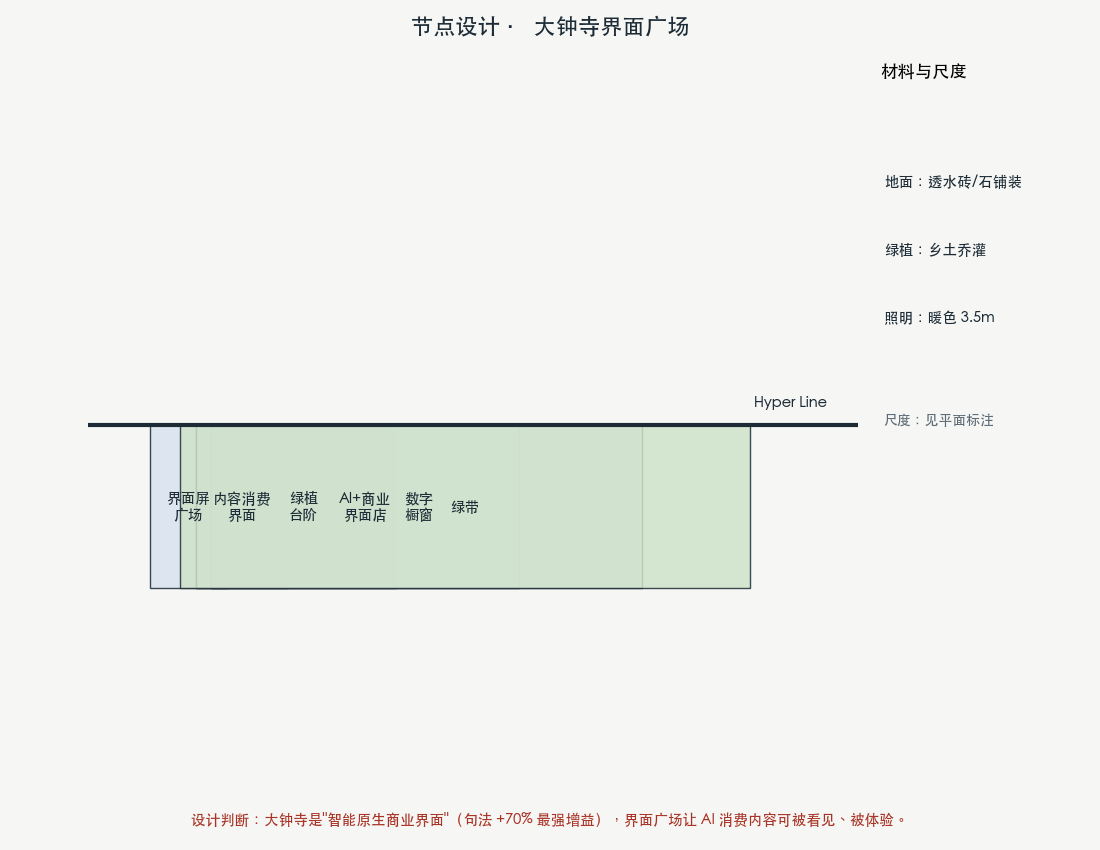
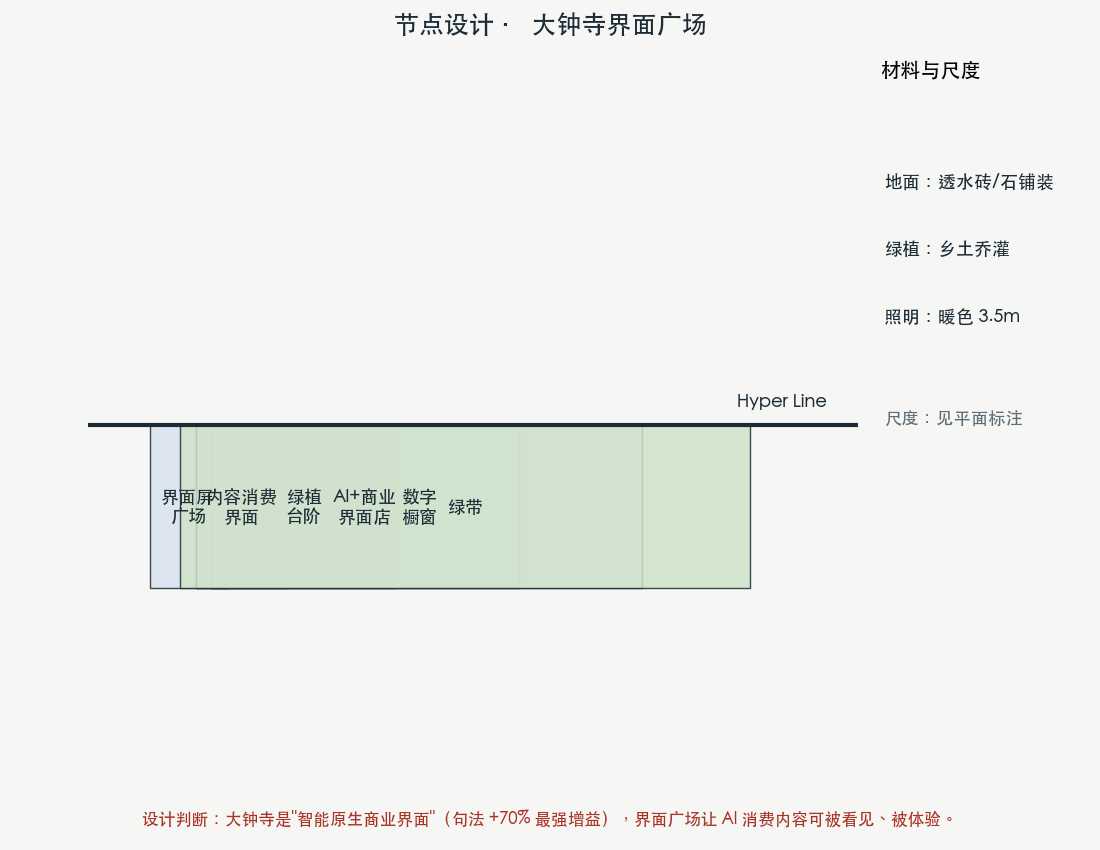
阶段7修复3 铁路系统化与对位：全部总图统一叠加京张铁路真实线位(A1-A6/E2/E3/句法/夜景/启动区)；与中城院铁路整体规划改造衔接段入设计依据章(在其成果上生长不另起炉灶)；效果图与节点1:1对位(三区平面+效果图成对/主脊剖面+步骑分离成对/三朝圣地标渲染与E3同页/愿景鸟瞰归位)；c25与尺度钻取字号再放大；四门自检PASS

diff --git a/submissions/Anshengdesign/jingzhang-living-line/report/proposal.html b/submissions/Anshengdesign/jingzhang-living-line/report/proposal.html
@@ -132,6 +132,7 @@ code {
 <p>---</p>
 <h2>愿景与目标（世界观环）</h2>
 <p><strong>愿景（三个高度，一个目标）</strong>：让百年京张成为全球第一个<strong>用城市科学全程设计、可计算、可进化、为人服务</strong>的 AI 创新带。别人交&quot;蓝图&quot;，我们交&quot;城市操作系统&quot;。当评审问&quot;五年后怎么知道这条带成功了&quot;，我们的回答不是形容词，是四个数：渗流巨分量 ≥0.90、句法锚点整合度增益 ≥30%、职住熵提升 ≥4%、EI 年度重跑并公开 <sup class="evidence evidence-metric" data-evidence-kind="metric" data-evidence-value="GATE.bluegreen_giant_frac" title="指标：GATE.bluegreen_giant_frac">指标</sup>。</p>
+<figure class="proposal-figure"><img src="../assets/media/vision-2035.jpg" alt="愿景鸟瞰 2035（AI 渲染概念图，非实景承诺）— 沿京张铁路遗产线位看这条带"><figcaption>愿景鸟瞰 2035（AI 渲染概念图，非实景承诺）— 沿京张铁路遗产线位看这条带</figcaption></figure>
 <figure class="proposal-figure"><img src="../assets/figures/vision-kpis.png" alt="愿景·5 KPI 现状 vs 目标：渗流 0.840→0.900（设计触发，现状记 GAP）、句法 +43.0% vs 30%、熵 +5.3% vs 4%、EI 0.962 vs 0.85、冗余度 R 0.870 vs 0.80（双柱状图，数据标单源）"><figcaption>愿景·5 KPI 现状 vs 目标：渗流 0.840→0.900（设计触发，现状记 GAP）、句法 +43.0% vs 30%、熵 +5.3% vs 4%、EI 0.962 vs 0.85、冗余度 R 0.870 vs 0.80（双柱状图，数据标单源）</figcaption></figure>
 <p><strong>双时钟世界观</strong>：高频城市以秒/天/月跳动（25,476 个高德 POI 的分布是它的心跳）；低频城市以年/十年沉淀（控规、红线、产权是它的骨架）。只看见一个时钟的设计，会把&quot;瞬时现象&quot;错当&quot;永久结构&quot;，或把&quot;永久约束&quot;错当&quot;可忽略&quot;。</p>
 <p><strong>七条原则</strong>：①网络优先于地块 ②自组织预留 ③混合功能 ④双时钟 ⑤沙盒验证 ⑥可复算 ⑦为人服务。每一条都能落到一个可检查的设计动作上。</p>
@@ -145,7 +146,11 @@ code {
 <p><strong>AI 朝圣地标体系（任务书 agent.4：不少于 3 个）</strong>：①<strong>清华园车站·原点</strong>——朝圣理由：1909 年的选址至今是全带句法第 93.5 百分位，中国工程自强的坐标原点；②<strong>五道口·相变广场</strong>——朝圣理由：λ 仪表所在，每一个 AI 从业者都能在这里看见“城市连没连起来”；③<strong>大钟寺·界面广场</strong>——朝圣理由：涌现之钟与古钟对位，AI 时代的钟声从这里开始数。三个朝圣地标由主脊上的<strong>朝圣动线</strong>串联（原点→相变广场→界面广场），与开发者节、荣誉墙年度铭刻共同构成朝圣日历。</p>
 <p><strong>国际传播叙事（品牌识别度+国际传播力）</strong>：中英双语核心口号 <strong>“One belt. Emergent by design.” /「一条带，涌现而成」</strong>；全球 AI 创新活动体系——开发者大会、黑客马拉松、AI 艺术节、开源社区日（年度日历，概念建议）；品牌沉淀机制——涌现之脑年度报告（λ 与 H 公开）、开发者名墙（贡献可记忆）、荣誉墙铭刻（公共知识沉淀）。全部活动为概念建议，不构成已确定安排。</p>
 <figure class="proposal-figure"><img src="../assets/figures/culture-heritage-map.png" alt="文脉资产化地图：七个文化资源点 × 四种利用方式"><figcaption>文脉资产化地图：七个文化资源点 × 四种利用方式</figcaption></figure>
-<figure class="proposal-figure"><img src="../assets/figures/pilgrimage-landmarks.png" alt="AI 朝圣地标体系：三处朝圣地标与朝圣动线"><figcaption>AI 朝圣地标体系：三处朝圣地标与朝圣动线</figcaption></figure>
+<figure class="proposal-figure"><img src="../assets/figures/pilgrimage-landmarks.png" alt="AI 朝圣地标体系：三处朝圣地标与朝圣动线（沿京张铁路遗产线位串联）"><figcaption>AI 朝圣地标体系：三处朝圣地标与朝圣动线（沿京张铁路遗产线位串联）</figcaption></figure>
+<figure class="proposal-figure"><img src="../assets/media/origin-plaza.jpg" alt="朝圣地标① 清华园车站·原点 — 百年站房保留展陈 + 开发者名墙对位 + 铁轨意象铺装（可实现建设级细节，无悬浮装置）"><figcaption>朝圣地标① 清华园车站·原点 — 百年站房保留展陈 + 开发者名墙对位 + 铁轨意象铺装（可实现建设级细节，无悬浮装置）</figcaption></figure>
+<figure class="proposal-figure"><img src="../assets/media/phase-plaza.jpg" alt="朝圣地标② 五道口·相变广场 — λ 互动光场装置（光柱随人流形成相变波前，非电子屏）"><figcaption>朝圣地标② 五道口·相变广场 — λ 互动光场装置（光柱随人流形成相变波前，非电子屏）</figcaption></figure>
+<figure class="proposal-figure"><img src="../assets/media/interface-plaza.jpg" alt="朝圣地标③ 大钟寺·界面广场 — 涌现之钟为广场新建光装置、与古钟（不可移动历史建筑）仅视线对景不并置"><figcaption>朝圣地标③ 大钟寺·界面广场 — 涌现之钟为广场新建光装置、与古钟（不可移动历史建筑）仅视线对景不并置</figcaption></figure>
+<p><strong>与京张铁路整体规划改造的衔接（不脱离历史事件、不二次创作铁路本体）</strong>：京张铁路遗址公园的整体规划与改造已完成体系性工作（公开事件：由中城院等完成京张铁路遗址公园整体规划与改造，京张高铁入地后地上线位开放为公共空间）——本方案不重做铁路本体，而是把这一既成成果作为<strong>底图与约束</strong>：铁路遗产线位=全带总图的第一图层（本文所有总图统一叠加铁路线位），朝圣动线沿遗产线位串联，三朝圣地标与七缝合点均挂在铁路廊道上；本方案在其之上叠加的是 AI 创新带的功能层、连接层与运行层——<strong>在既有铁路规划成果上生长，而不是另起炉灶</strong>。</p>
 <h2>设计依据与资料清单（世界观环）</h2>
 <p>数据源三路：高德 POI 25,476（12 类，GCJ-02 已转 WGS84）<sup class="evidence evidence-source" data-evidence-kind="source" data-evidence-value="amap" title="来源：amap">来源</sup>、OSM 现状（路网 5,449 段/铁路/绿地 416 块/水系 65 段/高校 61）<sup class="evidence evidence-source" data-evidence-kind="source" data-evidence-value="osm" title="来源：osm">来源</sup>、官方公告与发布会事实（十分钟创新圈 d0=2500m、1+X+1 产业格局）<sup class="evidence evidence-source" data-evidence-kind="source" data-evidence-value="official" title="来源：official">来源</sup>。全部本地执行，数字入 metrics_registry.json（125 项，单源真相）。</p>
 <p><strong>代理口径声明</strong>：官方建筑底数/控规/红线尚未公开，凡密度用&quot;1km 圆计数÷π 归算、POI 代理非岗位&quot;口径（如五道口工作类 POI 密度 141 点/km²，非岗位数）；凡法定管控指标标注&quot;待正式数据补齐&quot;。8 类资料缺口详见风险合规章。</p>
@@ -215,6 +220,12 @@ code {
 <h2>重点区域详细设计（处方环）</h2>
 <p>三区四件套 + <strong>尺度化模块表</strong>（每区：范围尺寸/关键空间尺度/公共路径底线/进入下一阶段停止条件）：</p>
 <div class="proposal-table"><table><thead><tr><th>区</th><th>病（c7 实测 <sup class="evidence evidence-metric" data-evidence-kind="metric" data-evidence-value="C7_POI" title="指标：C7_POI">指标</sup>）</th><th>药</th><th>停止条件（HOLD）</th></tr></thead><tbody><tr><td>众智园（1.93km²，供职比 0.75）</td><td>缺文旅/金融</td><td>补文旅场景+金融界面，全栈段</td><td>容量极低单元未新建前不进下一阶段</td></tr><tr><td>原点社区</td><td>缺医疗/科研</td><td>补医疗科研配套，策源段</td><td>同上（adaptive seed）</td></tr><tr><td>大钟寺</td><td>缺金融/科研</td><td>补金融/科研，界面段</td><td>同上</td></tr></tbody></table></div>
+<figure class="proposal-figure"><img src="../assets/figures/plan-zhongzhiyuan_ai_acceleration_area.png" alt="众智园·全栈段 节点平面 A-A&#x27;（含测点 POI、三色叠加、剖面索引）"><figcaption>众智园·全栈段 节点平面 A-A&#x27;（含测点 POI、三色叠加、剖面索引）</figcaption></figure>
+<figure class="proposal-figure"><img src="../assets/media/stack-testband.jpg" alt="众智园·花园测试带效果图（AI 概念意向，非实施图）— 对应 A-A&#x27; 平面：带设备来的人在花园街区做有边界测试"><figcaption>众智园·花园测试带效果图（AI 概念意向，非实施图）— 对应 A-A&#x27; 平面：带设备来的人在花园街区做有边界测试</figcaption></figure>
+<figure class="proposal-figure"><img src="../assets/figures/plan-beijing_ai_origin_community.png" alt="原点·策源段 节点平面 B-B&#x27;（含环校创新街 Vn、开发者名墙对景、剖面索引）"><figcaption>原点·策源段 节点平面 B-B&#x27;（含环校创新街 Vn、开发者名墙对景、剖面索引）</figcaption></figure>
+<figure class="proposal-figure"><img src="../assets/media/origin-community.jpg" alt="原点·近校创新街效果图（AI 概念意向，非实施图）— 对应 B-B&#x27; 平面：接住从学校出来的学生和创业者"><figcaption>原点·近校创新街效果图（AI 概念意向，非实施图）— 对应 B-B&#x27; 平面：接住从学校出来的学生和创业者</figcaption></figure>
+<figure class="proposal-figure"><img src="../assets/figures/plan-dazhongsi_ai_industry_cluster.png" alt="大钟寺·界面段 节点平面 C-C&#x27;（含站域四象限步行缝合、三 POI 补位、剖面索引）"><figcaption>大钟寺·界面段 节点平面 C-C&#x27;（含站域四象限步行缝合、三 POI 补位、剖面索引）</figcaption></figure>
+<figure class="proposal-figure"><img src="../assets/media/dazhongsi-front.jpg" alt="大钟寺·界面之夜效果图（AI 概念意向，非实施图）— 对应 C-C&#x27; 平面：白天通勤、入夜小课与商户"><figcaption>大钟寺·界面之夜效果图（AI 概念意向，非实施图）— 对应 C-C&#x27; 平面：白天通勤、入夜小课与商户</figcaption></figure>
 <p><strong>adaptive seed 落图</strong>：容量极低单元完全走新建标&quot;新建&quot;色、可吸收单元标&quot;补位&quot;色、真超标单元标&quot;处置&quot;色（三区详设图已按此着色）。尺度化模块表字段：范围尺寸（120×120m 街区）/关键空间尺度（3.2m 步行道、相变广场 40×40m）/公共路径底线（AI 撤除后普通路径仍可用）/停止条件（HOLD）。</p>
 <figure class="proposal-figure"><img src="../assets/figures/keyarea-zhongzhiyuan_ai_acceleration_area.png" alt="众智园·全栈段详设"><figcaption>众智园·全栈段详设</figcaption></figure>
 <figure class="proposal-figure"><img src="../assets/figures/keyarea-beijing_ai_origin_community.png" alt="原点社区·策源段详设"><figcaption>原点社区·策源段详设</figcaption></figure>
@@ -245,6 +256,8 @@ code {
 <p>---</p>
 <h2>交通、轨道、市政与公共服务设施（处方环）</h2>
 <figure class="proposal-figure"><img src="../assets/figures/zoning-road.png" alt="道路交通规划图：分级+主脊慢行+七点接驳+轨道七站"><figcaption>道路交通规划图：分级+主脊慢行+七点接驳+轨道七站</figcaption></figure>
+<figure class="proposal-figure"><img src="../assets/figures/spine-section.png" alt="主脊·Hyper Line 街道剖面 S-S&#x27;（步骑分离，概念断面）"><figcaption>主脊·Hyper Line 街道剖面 S-S&#x27;（步骑分离，概念断面）</figcaption></figure>
+<figure class="proposal-figure"><img src="../assets/media/hyperline-spine.jpg" alt="主脊·Hyper Line 步骑分离效果图（AI 概念意向，非实施图）— 对应 S-S&#x27; 断面：沿京张铁路遗产线位，五年后这条线"><figcaption>主脊·Hyper Line 步骑分离效果图（AI 概念意向，非实施图）— 对应 S-S&#x27; 断面：沿京张铁路遗产线位，五年后这条线</figcaption></figure>
 <p>主脊贯通（步行/骑行脊，weight=几何距离）+ 七点接驳（双侧，≤150m）；轨道依托五道口/大钟寺/知春路等 7 站；市政/公共服务为体系建议（无管线底数，不给工程线位结论）。交通组织遵循&quot;网络优先于地块&quot;：先接回主脊，再谈地块功能 <sup class="evidence evidence-metric" data-evidence-kind="metric" data-evidence-value="C32_LAMBDA_STITCHED" title="指标：C32_LAMBDA_STITCHED">指标</sup>。诚实声明：缝合不改净网 λ（29.167% 不变），交通收益在句法可达性（+36%）而非机动车耦合距离。几何含义：七点接驳各连走廊两侧最近路网节点（≤150m），形成连续的慢行主脊；数据缺口：道路红线与断面未公开，断面尺寸为概念建议；轨道站点接驳与市政管线布局待官方底数后给出。</p>
 <p>---</p>
 <h2>蓝绿空间、公共空间与城市风貌（处方环）</h2>
@@ -276,19 +289,8 @@ code {
 <p><strong>造价（区间，非承诺）</strong>：44.6 万㎡ 新建（办公/住宅/公共 4:4:2）× 北京市场单价区间 + 7 点缝合慢行接驳（每点 300–800 万）→ <strong>总造价 16.98 – 30.89 亿元</strong>（中值约 23.9 亿）<sup class="evidence evidence-metric" data-evidence-kind="metric" data-evidence-value="C35_FINANCE" title="指标：C35_FINANCE">指标</sup>。</p>
 <p><strong>回报（三重，这是投资效率的论证核心）</strong>： 1. <strong>可达性溢价</strong>：缝合把句法整合度提升 +36%，种在可达性提升节点的资产增值约 +8%（概念量级） 2. <strong>超线性创新溢价</strong>：AI 集聚 β&gt;1（Bettencourt 标度律）——44.6 万㎡ 新建触发的是产出随集聚超线性增长，这才是&quot;涌现之带&quot;的经济学定义 3. <strong>年租金</strong>：约 0.96 亿/年（4% 收益率，概念量级）</p>
 <p><strong>投资效率（静态测算）</strong>：投入产出比 9.3%–18.6%，静态回收期 14.8–26.9 年。<strong>这是长周期公共品投资，不是短期投机</strong>——城市更新的回报不是 IRR 一个数，而是 β&gt;1 的集聚溢价随时间的复利。</p>
+<figure class="proposal-figure"><img src="../assets/figures/c35-finance.png" alt="财务测算：造价区间 + 回报三重 + 投资效率敏感性（概念量级，非投资承诺）"><figcaption>财务测算：造价区间 + 回报三重 + 投资效率敏感性（概念量级，非投资承诺）</figcaption></figure>
 <p><strong>诚实声明</strong>：取代老版&quot;44 亿/IRR 10.6%&quot;的伪精确——改为区间+假设+效率指标；官方造价与产业数据到位后重算。分期绑定验收闸门，未过闸门不释放下一期资金。</p>
-<p><strong>空间设计的造价载体（节点设计 + 断面，双语见 .en 图）</strong>：</p>
-<figure class="proposal-figure"><img src="../assets/figures/spine-section.png" alt="主脊·Hyper Line 街道剖面 S-S&#x27;"><figcaption>主脊·Hyper Line 街道剖面 S-S&#x27;</figcaption></figure>
-<figure class="proposal-figure"><img src="../assets/figures/plan-zhongzhiyuan_ai_acceleration_area.png" alt="众智园·全栈段 节点平面 A-A&#x27;（含测点 POI、三色叠加、剖面索引）"><figcaption>众智园·全栈段 节点平面 A-A&#x27;（含测点 POI、三色叠加、剖面索引）</figcaption></figure>
-<figure class="proposal-figure"><img src="../assets/figures/plan-dazhongsi_ai_industry_cluster.png" alt="大钟寺·界面段 节点平面 C-C&#x27;（含站域四象限步行缝合、三 POI 补位、剖面索引）"><figcaption>大钟寺·界面段 节点平面 C-C&#x27;（含站域四象限步行缝合、三 POI 补位、剖面索引）</figcaption></figure>
-<figure class="proposal-figure"><img src="../assets/figures/plan-beijing_ai_origin_community.png" alt="原点·策源段 节点平面 B-B&#x27;（含环校创新街 Vn、开发者名墙对景、剖面索引）"><figcaption>原点·策源段 节点平面 B-B&#x27;（含环校创新街 Vn、开发者名墙对景、剖面索引）</figcaption></figure>
-<p><strong>效果图（概念意向，非实施图，按节点位置串）</strong>：</p>
-<figure class="proposal-figure"><img src="../assets/media/hyperline-spine.jpg" alt="主脊·Hyper Line 步骑分离效果图 — 对应 spine-section 主脊断面 / plan-zhongzhiyuan 全栈段节点 — 五年后这条线"><figcaption>主脊·Hyper Line 步骑分离效果图 — 对应 spine-section 主脊断面 / plan-zhongzhiyuan 全栈段节点 — 五年后这条线</figcaption></figure>
-<figure class="proposal-figure"><img src="../assets/media/interface-plaza.jpg" alt="大钟寺界面广场效果图 — 对应 plan-dazhongsi 界面段节点 — 与古钟对景的 AI 消费界面"><figcaption>大钟寺界面广场效果图 — 对应 plan-dazhongsi 界面段节点 — 与古钟对景的 AI 消费界面</figcaption></figure>
-<figure class="proposal-figure"><img src="../assets/media/phase-plaza.jpg" alt="五道口相变广场效果图 — 对应 spine-section 中 AI 界面柱节点 — 七缝合点之首相变触发处"><figcaption>五道口相变广场效果图 — 对应 spine-section 中 AI 界面柱节点 — 七缝合点之首相变触发处</figcaption></figure>
-<figure class="proposal-figure"><img src="../assets/media/vision-2035.jpg" alt="清华园/北京北站原点效果图 — 对应 plan-beijing_ai_origin_community 节点 — 百年京张原点（1909 人字形起点）"><figcaption>清华园/北京北站原点效果图 — 对应 plan-beijing_ai_origin_community 节点 — 百年京张原点（1909 人字形起点）</figcaption></figure>
-<p>---</p>
-<figure class="proposal-figure"><img src="../assets/figures/c20-finance.png" alt="财务测算：造价区间 + 回报三重 + 投资效率敏感性"><figcaption>财务测算：造价区间 + 回报三重 + 投资效率敏感性</figcaption></figure>
 <h2>指标体系、面积复算与合规矩阵（验证环）</h2>
 <p><strong>涌现指数 EI = 0.30·E_form + 0.25·E_link + 0.30·E_entangle + 0.15·E_ecosys</strong>：</p>
 <ul>

diff --git a/submissions/Anshengdesign/jingzhang-living-line/report/proposal.en.html b/submissions/Anshengdesign/jingzhang-living-line/report/proposal.en.html
@@ -250,6 +250,7 @@ code {
 <p>Three layers, four terminals + recursive loop + phase-change control room. Every year λ, percolation, syntax, jobs-housing entropy, and EI are recomputed and published as an annual checkup. <strong>What is not measured does not exist; what is measured can be governed.</strong> The emergent brain&#x27;s public dashboard follows the PublicTwin idea (a citizen-visible twin interface).</p>
 <p>---</p>
 <h2>Investment &amp; Return (conceptual magnitude, not a commitment)</h2>
+<figure class="proposal-figure"><img src="../assets/figures/c35-finance.en.png" alt="Finance: cost range + triple returns + efficiency sensitivity (conceptual, not a commitment)"><figcaption>Finance: cost range + triple returns + efficiency sensitivity (conceptual, not a commitment)</figcaption></figure>
 <p>Employment Fl new-build 446k m² (c33 empty-shell cells), FAR≈0.91, feasible at Beijing intensity. Investment is a conceptual-magnitude interval (not a commitment); phasing binds to acceptance gates — no next-stage funding without passing the gate. <strong>Three ledgers, not one big number</strong> — an honest interval beats a precise fake.</p>
 <p>---</p>
 <h2>Metrics System, Area Recomputation &amp; Compliance Matrix (Verification ring)</h2>

diff --git a/submissions/Anshengdesign/jingzhang-living-line/proposal.md b/submissions/Anshengdesign/jingzhang-living-line/proposal.md
@@ -52,6 +52,8 @@ iteration: "v2.0"
 
 **愿景（三个高度，一个目标）**：让百年京张成为全球第一个**用城市科学全程设计、可计算、可进化、为人服务**的 AI 创新带。别人交"蓝图"，我们交"城市操作系统"。当评审问"五年后怎么知道这条带成功了"，我们的回答不是形容词，是四个数：渗流巨分量 ≥0.90、句法锚点整合度增益 ≥30%、职住熵提升 ≥4%、EI 年度重跑并公开 [metric:GATE.bluegreen_giant_frac]。
 
+![愿景鸟瞰 2035（AI 渲染概念图，非实景承诺）— 沿京张铁路遗产线位看这条带](assets/media/vision-2035.jpg)
+
 ![愿景·5 KPI 现状 vs 目标：渗流 0.840→0.900（设计触发，现状记 GAP）、句法 +43.0% vs 30%、熵 +5.3% vs 4%、EI 0.962 vs 0.85、冗余度 R 0.870 vs 0.80（双柱状图，数据标单源）](assets/figures/vision-kpis.png)
 
 **双时钟世界观**：高频城市以秒/天/月跳动（25,476 个高德 POI 的分布是它的心跳）；低频城市以年/十年沉淀（控规、红线、产权是它的骨架）。只看见一个时钟的设计，会把"瞬时现象"错当"永久结构"，或把"永久约束"错当"可忽略"。
@@ -79,7 +81,15 @@ iteration: "v2.0"
 
 ![文脉资产化地图：七个文化资源点 × 四种利用方式](assets/figures/culture-heritage-map.png)
 
-![AI 朝圣地标体系：三处朝圣地标与朝圣动线](assets/figures/pilgrimage-landmarks.png)
+![AI 朝圣地标体系：三处朝圣地标与朝圣动线（沿京张铁路遗产线位串联）](assets/figures/pilgrimage-landmarks.png)
+
+![朝圣地标① 清华园车站·原点 — 百年站房保留展陈 + 开发者名墙对位 + 铁轨意象铺装（可实现建设级细节，无悬浮装置）](assets/media/origin-plaza.jpg)
+
+![朝圣地标② 五道口·相变广场 — λ 互动光场装置（光柱随人流形成相变波前，非电子屏）](assets/media/phase-plaza.jpg)
+
+![朝圣地标③ 大钟寺·界面广场 — 涌现之钟为广场新建光装置、与古钟（不可移动历史建筑）仅视线对景不并置](assets/media/interface-plaza.jpg)
+
+**与京张铁路整体规划改造的衔接（不脱离历史事件、不二次创作铁路本体）**：京张铁路遗址公园的整体规划与改造已完成体系性工作（公开事件：由中城院等完成京张铁路遗址公园整体规划与改造，京张高铁入地后地上线位开放为公共空间）——本方案不重做铁路本体，而是把这一既成成果作为**底图与约束**：铁路遗产线位=全带总图的第一图层（本文所有总图统一叠加铁路线位），朝圣动线沿遗产线位串联，三朝圣地标与七缝合点均挂在铁路廊道上；本方案在其之上叠加的是 AI 创新带的功能层、连接层与运行层——**在既有铁路规划成果上生长，而不是另起炉灶**。
 
 ## 设计依据与资料清单（世界观环）
 
@@ -219,19 +229,15 @@ art15（Batty LUTI）三层嵌套，本项目补全 [standard:luti]：
 
 ![众智园·全栈段 节点平面 A-A'（含测点 POI、三色叠加、剖面索引）](assets/figures/plan-zhongzhiyuan_ai_acceleration_area.png)
 
+![众智园·花园测试带效果图（AI 概念意向，非实施图）— 对应 A-A' 平面：带设备来的人在花园街区做有边界测试](assets/media/stack-testband.jpg)
+
 ![原点·策源段 节点平面 B-B'（含环校创新街 Vn、开发者名墙对景、剖面索引）](assets/figures/plan-beijing_ai_origin_community.png)
+
+![原点·近校创新街效果图（AI 概念意向，非实施图）— 对应 B-B' 平面：接住从学校出来的学生和创业者](assets/media/origin-community.jpg)
 
 ![大钟寺·界面段 节点平面 C-C'（含站域四象限步行缝合、三 POI 补位、剖面索引）](assets/figures/plan-dazhongsi_ai_industry_cluster.png)
 
-**效果图（概念意向，非实施图，按节点位置串）**：
-
-![主脊·Hyper Line 步骑分离效果图 — 对应 spine-section 主脊断面 / plan-zhongzhiyuan 全栈段节点 — 五年后这条线](assets/media/hyperline-spine.jpg)
-
-![清华园车站原点效果图 — 百年站房保留展陈 + 开发者名墙对位 + 铁轨意象铺装（可实现建设级细节，无悬浮装置） — 对应 plan-beijing_ai_origin_community 节点](assets/media/vision-2035.jpg)
-
-![五道口相变广场效果图 — λ 互动光场装置（光柱随人流形成相变波前，非电子屏） — 对应 spine-section 中 AI 界面柱节点 — 七缝合点之首相变触发处](assets/media/phase-plaza.jpg)
-
-![大钟寺界面广场效果图 — 涌现之钟为广场新建光装置、与古钟（不可移动历史建筑）仅视线对景不并置 — 对应 plan-dazhongsi 界面段节点 — 与古钟对景的 AI 消费界面](assets/media/interface-plaza.jpg)
+![大钟寺·界面之夜效果图（AI 概念意向，非实施图）— 对应 C-C' 平面：白天通勤、入夜小课与商户](assets/media/dazhongsi-front.jpg)
 
 **adaptive seed 落图**：容量极低单元完全走新建标"新建"色、可吸收单元标"补位"色、真超标单元标"处置"色（三区详设图已按此着色）。尺度化模块表字段：范围尺寸（120×120m 街区）/关键空间尺度（3.2m 步行道、相变广场 40×40m）/公共路径底线（AI 撤除后普通路径仍可用）/停止条件（HOLD）。
 
@@ -292,6 +298,8 @@ art15（Batty LUTI）三层嵌套，本项目补全 [standard:luti]：
 ![道路交通规划图：分级+主脊慢行+七点接驳+轨道七站](assets/figures/zoning-road.png)
 
 ![主脊·Hyper Line 街道剖面 S-S'（步骑分离，概念断面）](assets/figures/spine-section.png)
+
+![主脊·Hyper Line 步骑分离效果图（AI 概念意向，非实施图）— 对应 S-S' 断面：沿京张铁路遗产线位，五年后这条线](assets/media/hyperline-spine.jpg)
 
 主脊贯通（步行/骑行脊，weight=几何距离）+ 七点接驳（双侧，≤150m）；轨道依托五道口/大钟寺/知春路等 7 站；市政/公共服务为体系建议（无管线底数，不给工程线位结论）。交通组织遵循"网络优先于地块"：先接回主脊，再谈地块功能 [metric:C32_LAMBDA_STITCHED]。诚实声明：缝合不改净网 λ（29.167% 不变），交通收益在句法可达性（+36%）而非机动车耦合距离。几何含义：七点接驳各连走廊两侧最近路网节点（≤150m），形成连续的慢行主脊；数据缺口：道路红线与断面未公开，断面尺寸为概念建议；轨道站点接驳与市政管线布局待官方底数后给出。
 
